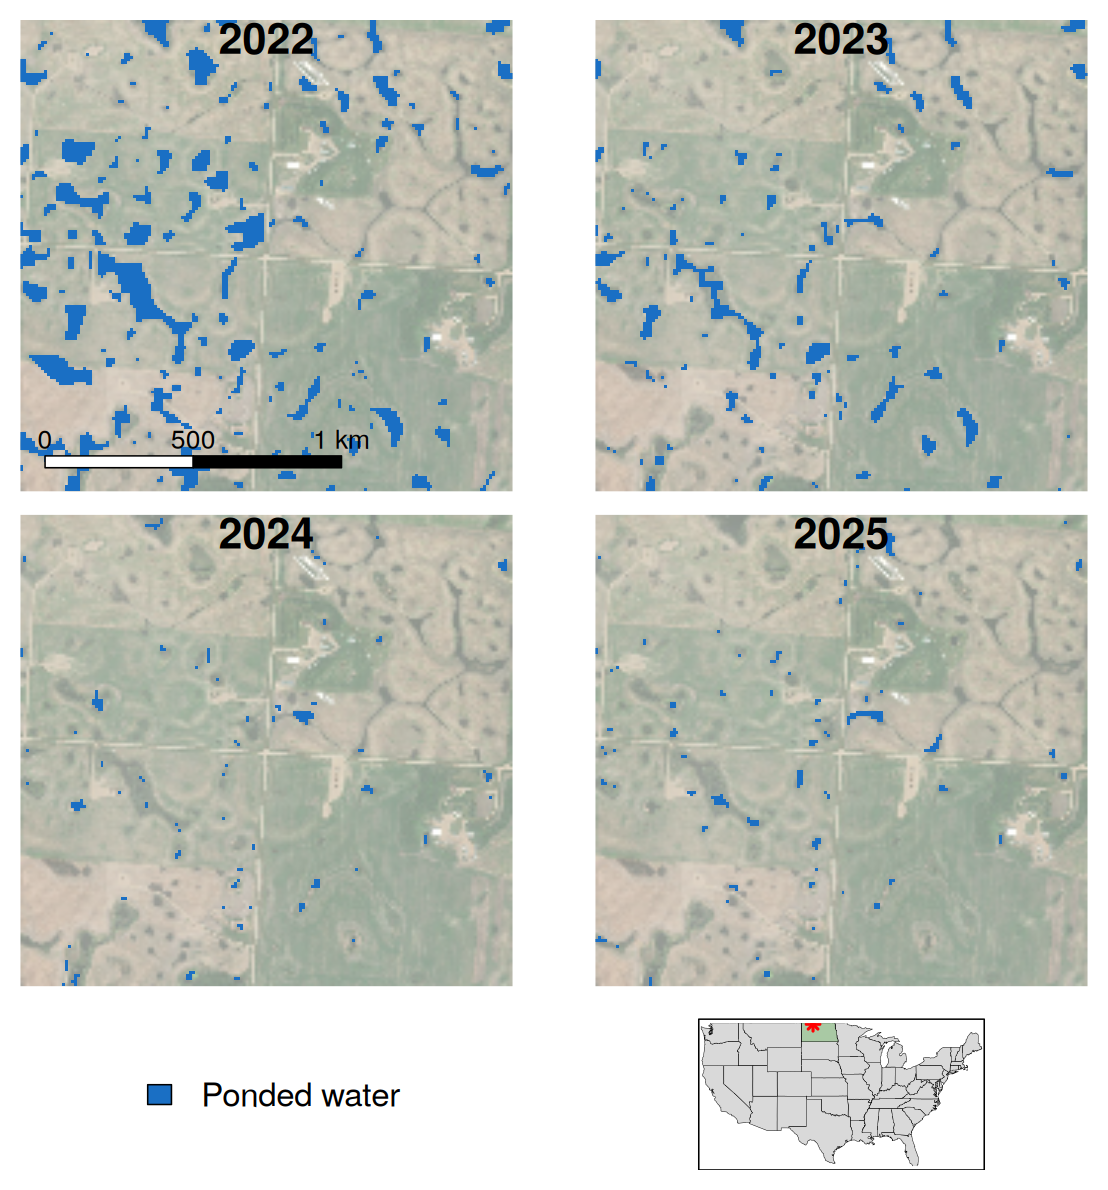
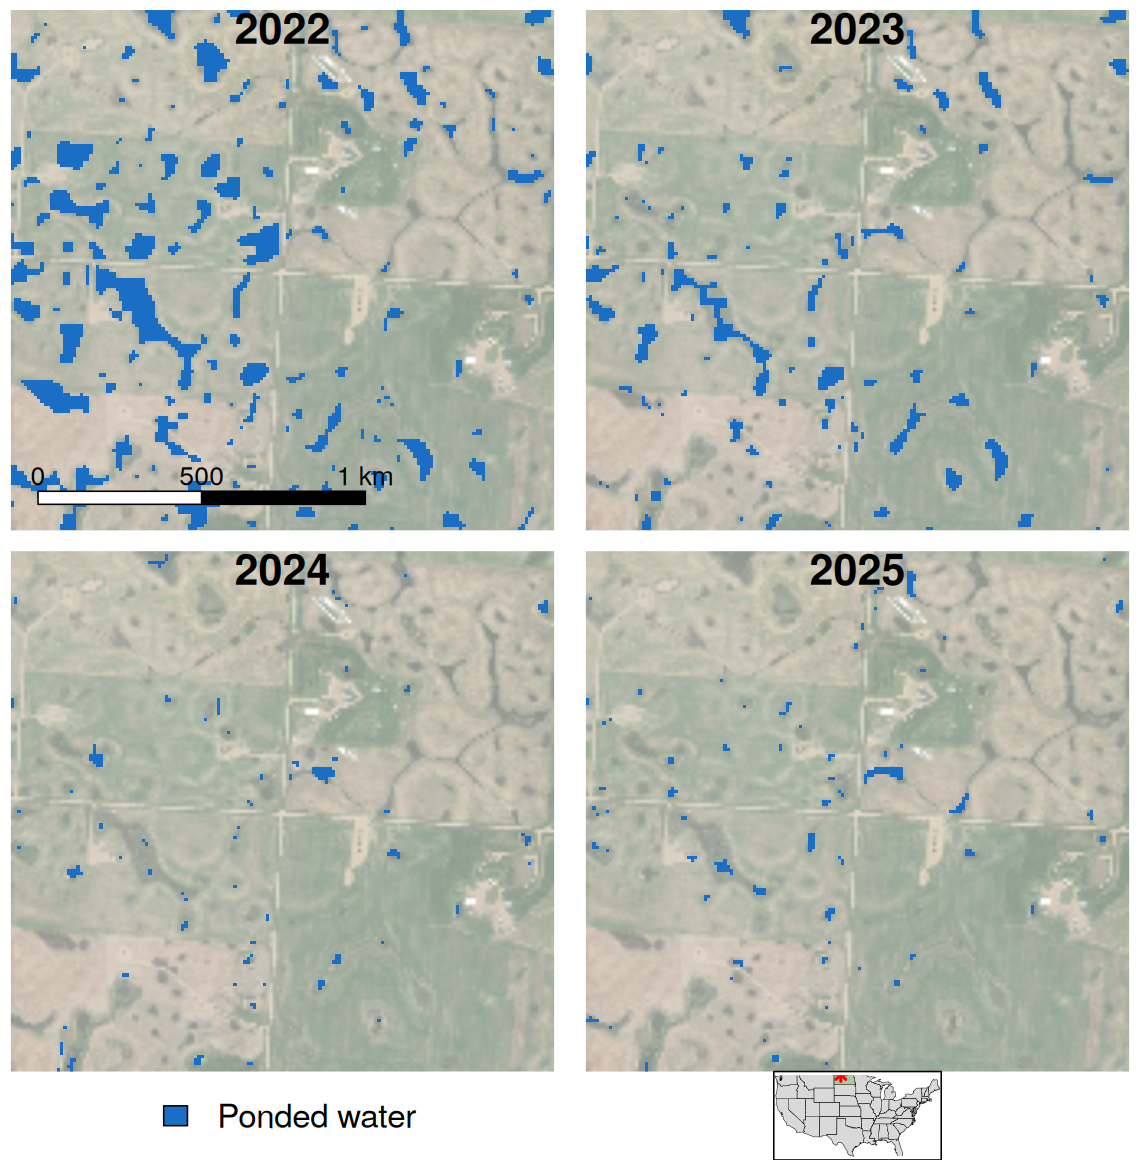
tried to make timelapse smaller

diff --git a/docs/research.html b/docs/research.html
@@ -154,7 +154,7 @@ ul.task-list li input[type="checkbox"] {
 <h1>Prairie Pond Mapper</h1>
 <p>I use remote sensing, AI modeling, and open science practices to map prairie potholes - inland wetlands that dot the Northern Great Plains. The tool I built is called the Prairie Pond Mapper (“PPM”), and is available in Google Earth Engine. Check it out <a href="https://code.earthengine.google.com/2f358b4afc3a98f4a21105bf6b5d68dc">here</a> and find the documentation <a href="https://github.com/maggiechurch741/PPR_Pond_Mapper">here</a>.</p>
 <p>This project is funded by NASA and done in collaboration with the USFWS and Ducks Unlimited to better inform waterfowl conservation.</p>
-<div class="plot30-timelapse-player" style="max-width: 400px; margin: 1.5em auto;">
+<div class="plot30-timelapse-player" style="max-width: 340px; margin: 1.5em auto;">
 <p><img src="media/plot30_panels/panel_01.png" alt="Plot 30 wetland pond status, compared across 2022-2025 growing seasons" id="plot30-frame" style="width:100%; height:auto; display:block; border:1px solid #ddd; border-radius:4px;"></p>
 <div style="display:flex; align-items:center; gap:0.75em; margin-top:0.6em;">
 <button id="plot30-play" aria-label="Play" style="padding:0.25em 0.75em; cursor:pointer; font-size:1em;">
@@ -167,7 +167,7 @@ Ponded water (blue) over satellite imagery of the plot, across the 2022-2025 gro
 </figcaption>
 </div>
 <p>Prairie potholes generally fill with snowmelt and rain, and many dry by fall. But notice how these patterns change from year-to-year.</p>
-<div style="max-width: 400px; margin: 1.5em auto;">
+<div style="max-width: 340px; margin: 1.5em auto;">
 <div class="quarto-figure quarto-figure-center">
 <figure class="figure">
 <p><img src="media/ppr_model.png" class="img-fluid figure-img"></p>
